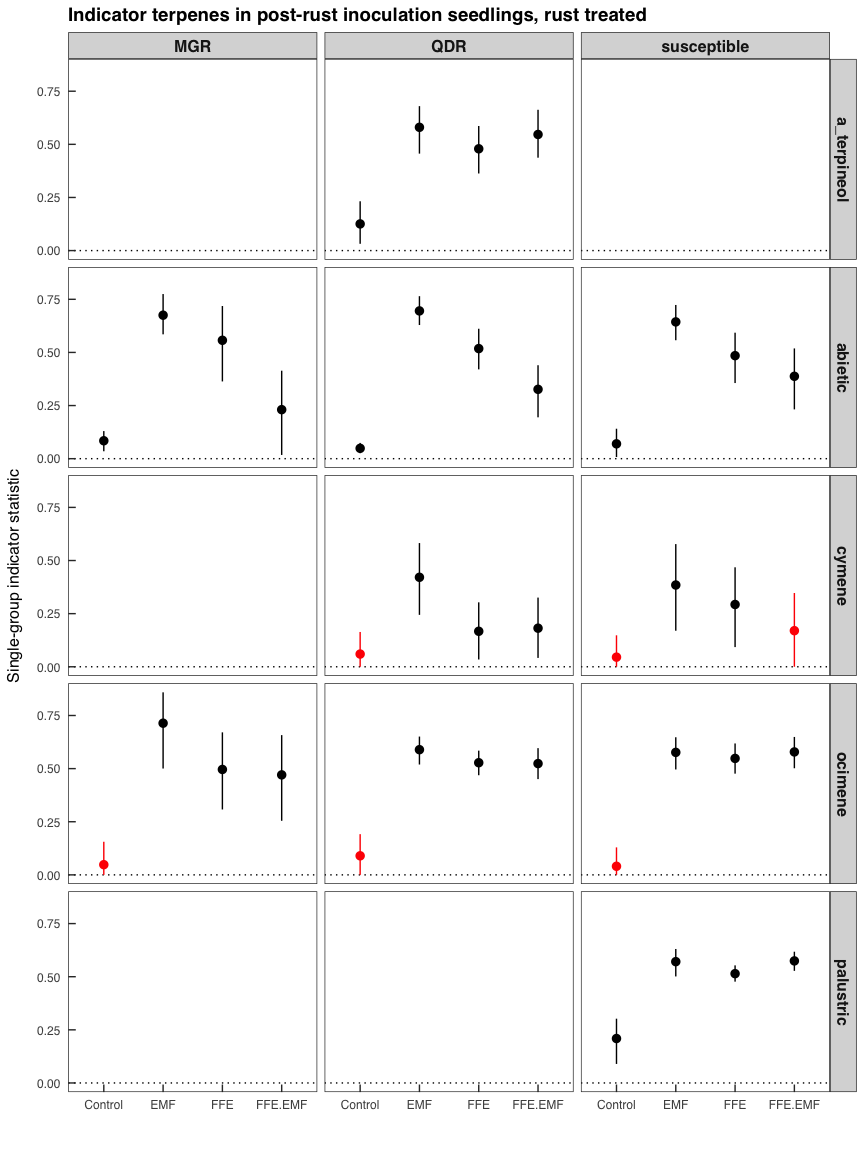
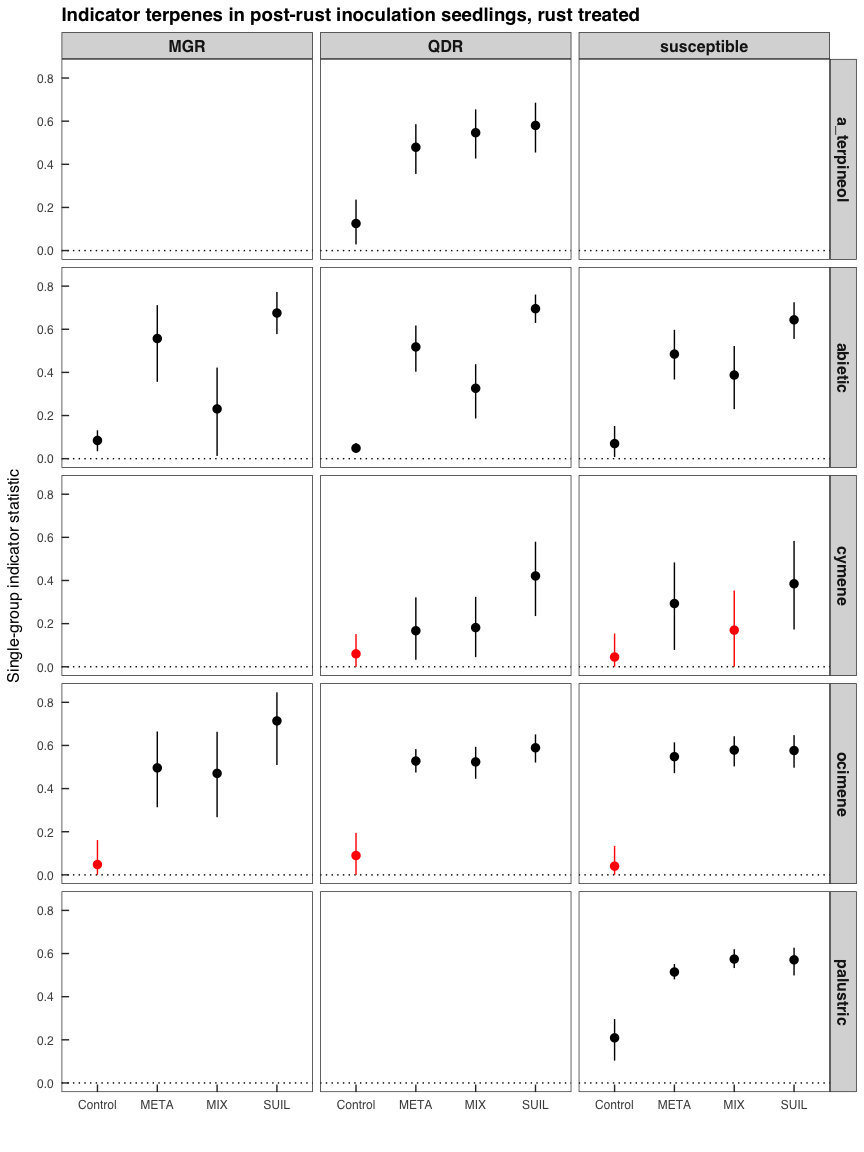
WIP

diff --git a/terpenes_indicators.md b/terpenes_indicators.md
@@ -3,7 +3,7 @@ resistance classes
 ================
 Beau Larkin
 
-Last updated: 19 December, 2022
+Last updated: 31 May, 2023
 
 - <a href="#description" id="toc-description">Description</a>
 - <a href="#package-and-library-installation"
@@ -61,9 +61,9 @@ treatment seedlings.
 
 Finally, the function `strassoc()` is used to produce bootstrapped
 confidence intervals on indicators’ strength of association to groups.
-The additional post-hoc test hopefully reduces the need for or concern
-over p-value corrections to `multipatt()`. The bootstrapped statistics
-and confidence intervals also allow the production of figures using
+The additional post-hoc test reduces the need for or concern over
+p-value corrections to `multipatt()`. The bootstrapped statistics and
+confidence intervals also allow the production of figures using
 `ggplot()` for easy interpretation.
 
 Indicator species analysis here is run on subsets of the seedling
@@ -89,7 +89,7 @@ brevity.
 
 ``` r
 # Package and library installation
-packages_needed <- c("tidyverse", "knitr", "indicspecies")
+packages_needed <- c("tidyverse", "knitr", "indicspecies", "colorspace")
 packages_installed <-
   packages_needed %in% rownames(installed.packages())
 ```
@@ -213,6 +213,7 @@ indic_pre <- function(rc, a="pre_rust", p=999, nb=999) {
     }) %>% 
     bind_rows(.id = "parameter") %>% 
     pivot_longer(cols = Control:FFE.EMF, names_to = "treatment") %>% 
+    mutate(treatment = case_match(treatment, "EMF" ~ "SUIL", "FFE" ~ "META", "FFE.EMF" ~ "MIX", .default = treatment)) %>% 
     pivot_wider(names_from = parameter, values_from = value)
   )
   
@@ -226,6 +227,7 @@ indic_pre <- function(rc, a="pre_rust", p=999, nb=999) {
 
 ``` r
 indVal_postrust_ci <- data.frame()
+indVal_pvals <- data.frame()
 indic_post <- function(rc, a, p=999, nb=999) {
   df <- data$terpene %>%
     filter(mass_type == "dw",
@@ -266,8 +268,24 @@ indic_post <- function(rc, a, p=999, nb=999) {
       }) %>% 
         bind_rows(.id = "parameter") %>% 
         pivot_longer(cols = Control:FFE.EMF, names_to = "treatment") %>% 
+        mutate(treatment = case_match(treatment, "EMF" ~ "SUIL", "FFE" ~ "META", "FFE.EMF" ~ "MIX", .default = treatment)) %>% 
         pivot_wider(names_from = parameter, values_from = value)
     )
+  
+  indVal_pvals <<-
+    rbind(indVal_pvals, 
+          indVal$sign %>% 
+            rownames_to_column(var = "compound") %>% 
+            mutate(resistance_class = rc,
+                   assessment = a,
+                   p_val = case_match(p.value, NA ~ 1, .default = p.value),
+                   corr_p_val = p.adjust(p_val, method = "BH")) %>% 
+            filter(compound %in% ind_compounds, p.value <= 0.05) %>% 
+            pivot_longer(cols = 2:5, names_to = "treatment", values_to = "present") %>% 
+            filter(present == 1, corr_p_val <= 0.05) %>% 
+            mutate(treatment = case_match(treatment, "s.EMF" ~ "SUIL", "s.FFE" ~ "META", "s.FFE+EMF" ~ "MIX", "s.Control" ~ "Control")) %>% 
+            select(-index, -present)
+          )
   
   print(paste(a, rc, sep = ", "))
   summary(indVal, indvalcomp = TRUE)
@@ -496,10 +514,10 @@ indic_post("MGR", "rust_ctrl")
     ##  Significance level (alpha): 0.05
     ## 
     ##  Total number of species: 26
-    ##  Selected number of species: 7 
+    ##  Selected number of species: 6 
     ##  Number of species associated to 1 group: 0 
     ##  Number of species associated to 2 groups: 4 
-    ##  Number of species associated to 3 groups: 3 
+    ##  Number of species associated to 3 groups: 2 
     ## 
     ##  List of species associated to each combination: 
     ## 
@@ -513,11 +531,10 @@ indic_post("MGR", "rust_ctrl")
     ## palustric 0.9671 1.0000 0.983   0.001 ***
     ## abietic   0.9470 0.9000 0.923   0.001 ***
     ## 
-    ##  Group EMF+FFE+FFE+EMF  #sps.  3 
-    ##                       A      B  stat p.value    
-    ## neoabietic       0.9907 0.9667 0.979   0.001 ***
-    ## levopiramic      0.9807 0.9333 0.957   0.001 ***
-    ## sandaracopiramic 0.8450 0.8667 0.856   0.042 *  
+    ##  Group EMF+FFE+FFE+EMF  #sps.  2 
+    ##                  A      B  stat p.value    
+    ## neoabietic  0.9907 0.9667 0.979   0.001 ***
+    ## levopiramic 0.9807 0.9333 0.957   0.001 ***
     ## ---
     ## Signif. codes:  0 '***' 0.001 '**' 0.01 '*' 0.05 '.' 0.1 ' ' 1
 
@@ -639,7 +656,7 @@ indic_post("MGR", "rust_inoc")
     ## 
     ##  Group EMF+FFE  #sps.  1 
     ##              A      B  stat p.value   
-    ## abietic 0.8550 0.8947 0.875   0.003 **
+    ## abietic 0.8550 0.8947 0.875   0.004 **
     ## 
     ##  Group EMF+FFE+FFE+EMF  #sps.  1 
     ##             A     B  stat p.value    
@@ -676,3 +693,54 @@ statistic is non-significant. Zero-overlapping CIs are shown as red on
 the plot.
 
 ![](terpenes_indicators_files/figure-gfm/indVal_rustinoc_plot-1.png)<!-- -->
+
+New figure, work in progress
+
+``` r
+terpene_heatmap_data <- 
+  data$terpene %>%
+  filter(mass_type == "dw", assessment != "pre_rust") %>%
+  mutate(
+    treatment = case_match(treatment, "EMF" ~ "SUIL", "FFE" ~ "META", "FFE+EMF" ~ "MIX", .default = treatment)) %>% 
+  group_by(treatment, assessment, resistance_class, class, compound) %>% 
+  summarize(mass = log1p(median(mass)), .groups = "drop") %>%
+  left_join(
+    indVal_pvals %>%
+      mutate(sig = 0.5),
+    by = join_by(treatment, assessment, resistance_class, compound)
+    ) %>% 
+  mutate(
+    assessment = case_match(assessment, "rust_ctrl" ~ "NoRust", "rust_inoc" ~ "Rust", .default = assessment),
+    resistance_class = case_match(resistance_class, "susceptible" ~ "Susceptible", .default = resistance_class)
+  )
+
+terpene_heatmap_data$corr_p_val[!is.na(terpene_heatmap_data$corr_p_val)] %>% sort()
+```
+
+    ##  [1] 0.003714286 0.003714286 0.003714286 0.003714286 0.003714286 0.003714286
+    ##  [7] 0.003714286 0.003714286 0.003714286 0.003714286 0.003714286 0.003714286
+    ## [13] 0.003714286 0.003714286 0.003714286 0.003714286 0.003714286 0.003714286
+    ## [19] 0.003714286 0.003714286 0.003714286 0.003714286 0.003714286 0.003714286
+    ## [25] 0.003714286 0.003714286 0.003714286 0.003714286 0.003714286 0.003714286
+    ## [31] 0.003714286 0.003714286 0.003714286 0.003714286 0.003714286 0.004333333
+    ## [37] 0.004333333 0.004333333 0.004333333 0.004333333 0.004333333 0.004333333
+    ## [43] 0.004333333 0.004333333 0.004333333 0.004333333 0.004333333 0.004333333
+    ## [49] 0.004333333 0.008666667 0.008666667 0.008666667 0.008666667 0.008666667
+    ## [55] 0.008666667 0.008666667 0.008666667 0.008666667 0.008666667 0.008666667
+    ## [61] 0.008666667 0.008666667 0.008666667 0.008666667 0.008666667 0.008666667
+    ## [67] 0.008666667 0.026000000 0.026000000 0.026000000
+
+``` r
+ggplot(terpene_heatmap_data, aes(x = treatment, y = compound)) +
+  facet_grid(class ~ assessment + resistance_class, scales = "free", space = "free") +
+  geom_tile(aes(fill = mass)) +
+  geom_tile(aes(linewidth = sig), color = "black", fill = NA) +
+  scale_fill_continuous_sequential(palette = "Grays") +
+  scale_linewidth(range = c(0.5, 0.5)) +
+  labs(x = "", y = "") +
+  guides(linewidth = "none") +
+  theme_bw() +
+  theme(axis.text.x = element_text(angle = 90, vjust = 0.5, hjust = 1))
+```
+
+![](terpenes_indicators_files/figure-gfm/unnamed-chunk-2-1.png)<!-- -->
